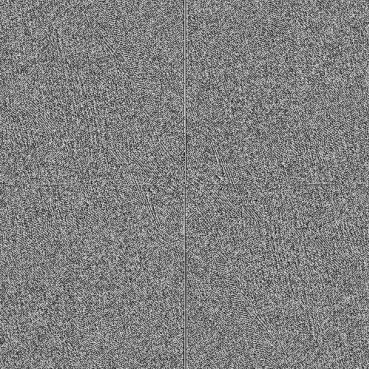
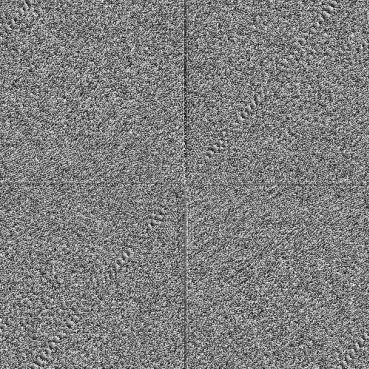
final

diff --git a/DSP_task4_1-front/templates/index.html b/DSP_task4_1-front/templates/index.html
@@ -5,72 +5,55 @@
   <meta charset="UTF-8" />
   <meta http-equiv="X-UA-Compatible" content="IE=edge" />
   <meta name="viewport" content="width=device-width, initial-scale=1.0" />
-  <title>Image Mixer</title>
+  <title>Document</title>
 
   <link rel="stylesheet" href="../static/style/style.css" />
   <link rel="stylesheet" href="https://cdnjs.cloudflare.com/ajax/libs/normalize/5.0.0/normalize.min.css">
   <link rel='stylesheet' href='https://cdnjs.cloudflare.com/ajax/libs/cropper/2.3.4/cropper.min.css'>
 </head>
 
-<form style="display: flex; flex: 1;" action="http://127.0.0.1:10000/" id="SubmitForm" method="post"
-  enctype="multipart/form-data">
-
-  <body>
-    <!-- ------------------------ The First Image Container ----------------------- -->
-    <div style="width: 25%; display: flex; flex-direction: column;">
-      <div class="container">
-        <label class="containerLabel">First image</label>
-        <div class="imageContainer">
-          <img id="FirstImage" class="Image" />
-        </div>
+<body>
+  <!-- ------------------------ The First Original Image Container ----------------------- -->
+  <div style="width: 30%; display: flex; flex-direction: column;">
+    <div class="container">
+      <label class="containerLabel">First image</label>
+      <div class="imageContainer">
+        <img id="FirstImage" class="Image" />
       </div>
-
-      <!-- ------------------------ The Second Image Container ---------------------- -->
-      <div class="container">
-        <label class="containerLabel">Second image</label>
-        <div class="imageContainer">
-          <img id="SecondImage" class="Image" />
-        </div>
-      </div>
+      <input id="FirstImageInput" name="input1" type="file" accept="image/*" hidden />
+      <label for="FirstImageInput" id="FirstImageBtn" class="ImageBtn">Upload Image 1</label>
     </div>
 
-    <!-- ------------------------ The First Image Tools ----------------------- -->
-    <div class="toolsBox" style="width: 25%;">
-      <label class="containerLabel">Tools Box</label>
+    <!-- ------------------------ The Second Original Image Container ---------------------- -->
+    <div class="container">
+      <label class="containerLabel">Second image</label>
       <div class="imageContainer">
-        <input id="FirstImageInput" name="input1" type="file" accept="image/*" style="display: none" />
-        <label for="FirstImageInput" id="FirstImageBtn" class="ImageBtn">Upload Image 1</label>
-        <div style="color: white;">
-          <p> Image Shown:</p>
-          <input type="radio" id="Original" name="FirstImageTools" value="Original" checked>
-          <label for="Original">Original</label><br>
-          <input type="radio" id="Phase" name="FirstImageTools" value="Phase">
-          <label for="Phase">Phase</label><br>
-          <input type="radio" id="Magnitude" name="FirstImageTools" value="Magnitude">
-          <label for="Magnitude">Magnitude</label>
-        </div>
+        <img id="SecondImage" class="Image" />
       </div>
-      <!-- ------------------------ The Mix Button ----------------------------- -->
+      <input id="SecondImageInput" name="input2" type="file" accept="image/*" hidden />
+      <label for="SecondImageInput" id="SecondImageBtn" class="ImageBtn">Upload Image 2</label>
+    </div>
+  </div>
 
-      <div class="imageContainer">
-        <button type="submit" form="SubmitForm" id="MixButton" class="MixButton">Mix Images</button>
-      </div>
-      <!-- ------------------------ The Second Image Tools ----------------------- -->
+  <!-- ------------------------ The First Image Magnitude/Phase ----------------------- -->
+  <div class="toolsBox" style="width: 30%;">
+    <label class="containerLabel">First Image Tools</label>
+    <div class="imageContainer">
+      <div id="img1cont"></div>
+    </div>
+    <!-- ------------------------ The Magnitude/Phase tools ----------------------- -->
+    <div style="display: flex;">
+      <input type="radio" id="Magnitude" name="FirstImageTools" value="Magnitude" checked>
+      <label for="Magnitude">Magnitude</label><br>
+      <input type="radio" id="Phase" name="FirstImageTools" value="Phase">
+      <label for="Phase">Phase</label>
 
-      <div class="imageContainer">
-        <input id="SecondImageInput" name="input2" type="file" accept="image/*" style="display: none" />
-        <label for="SecondImageInput" id="SecondImageBtn" class="ImageBtn">Upload Image 2</label>
-        <div style="color: white;">
-          <p>Image Shown:</p>
-          <input type="radio" id="Original" name="SecondImageTools" value="Original" checked>
-          <label for="Original">Original</label><br>
-          <input type="radio" id="Phase" name="SecondImageTools" value="Phase">
-          <label for="Phase">Phase</label><br>
-          <input type="radio" id="Magnitude" name="SecondImageTools" value="Magnitude">
-          <label for="Magnitude">Magnitude</label>
-        </div>
-      </div>
+    </div>
+    <!-- ------------------------ The Second Image Magnitude/Phase ------------------- -->
 
+    <label class="containerLabel">Second Image Tools</label>
+    <div class="imageContainer">
+      <div id="img2cont"></div>
     </div>
     <!-- ------------------------ The Magnitude/Phase tools ----------------------- -->
     <div style="display: flex;">
@@ -82,17 +65,20 @@
 
   </div>
 
-    <!-- ----------------------- The Mixed Image Container -------------------- -->
-    <div class="mixedContainer">
-      <label class="containerLabel">Mixed image</label>
-      <div class="imageContainer">
-        <img id="MixedImage" class="Image" />
-      </div>
+  <!-- ----------------------- The Mixed Image Container -------------------- -->
+  <div class="mixedContainer">
+    <label class="containerLabel">Mixed image</label>
+    <div class="imageContainer">
+      <img id="MixedImage" class="Image" />
     </div>
+    <input type="checkbox" id="checkbox" name="outin">
+    <label for="checkbox">Outside</label>
+  </div>
 
-  <script src="../static/script/main.js"></script>
   <script src='https://cdnjs.cloudflare.com/ajax/libs/cropperjs/0.8.1/cropper.min.js'></script>
+  <script src="../static/script/main.js"></script>
   <script src="//ajax.googleapis.com/ajax/libs/jquery/1.9.1/jquery.min.js"></script>
+
 </body>
 
 </html>

diff --git a/DSP_task4_1-front/static/script/main.js b/DSP_task4_1-front/static/script/main.js
@@ -31,7 +31,7 @@ firstImageInput.addEventListener("change", function () {
     makeCropper(0, image1Container, image1MagPath);
   };
   reader.readAsDataURL(this.files[0]);
-  FirstImageInput.removeEventListener();
+  LoadImage(this.files[0], 1)
 });
 
 secondImageInput.addEventListener("change", function () {
@@ -39,12 +39,16 @@ secondImageInput.addEventListener("change", function () {
   reader.onload = () => {
     secondRadios[1].checked = true;
     secondImage.src = reader.result;
-    addImage(image2Container, image1PhasePath);
     makeCropper(1, image2Container, image2PhasePath);
   };
   reader.readAsDataURL(this.files[0]);
+  LoadImage(this.files[0], 2)
 }
 );
+
+checkBox.addEventListener("change", () => {
+  cropDimensions[3] = checkBox.checked ? 1 : 0;
+})
 
 for (radio in firstRadios) {
   firstRadios[radio].onclick = function () {
@@ -88,14 +92,6 @@ function makeCropper(index, container, imageSrc) {
       loadDimensions();
     }
   });
-}
-
-function addImage(container, imageSrc) {
-  let img = document.createElement("img");
-  img.id = "image";
-  img.src = imageSrc + new Date().getTime();
-  container.innerHTML = "";
-  container.appendChild(img);
 }
 
 function LoadImage(image, index) {
